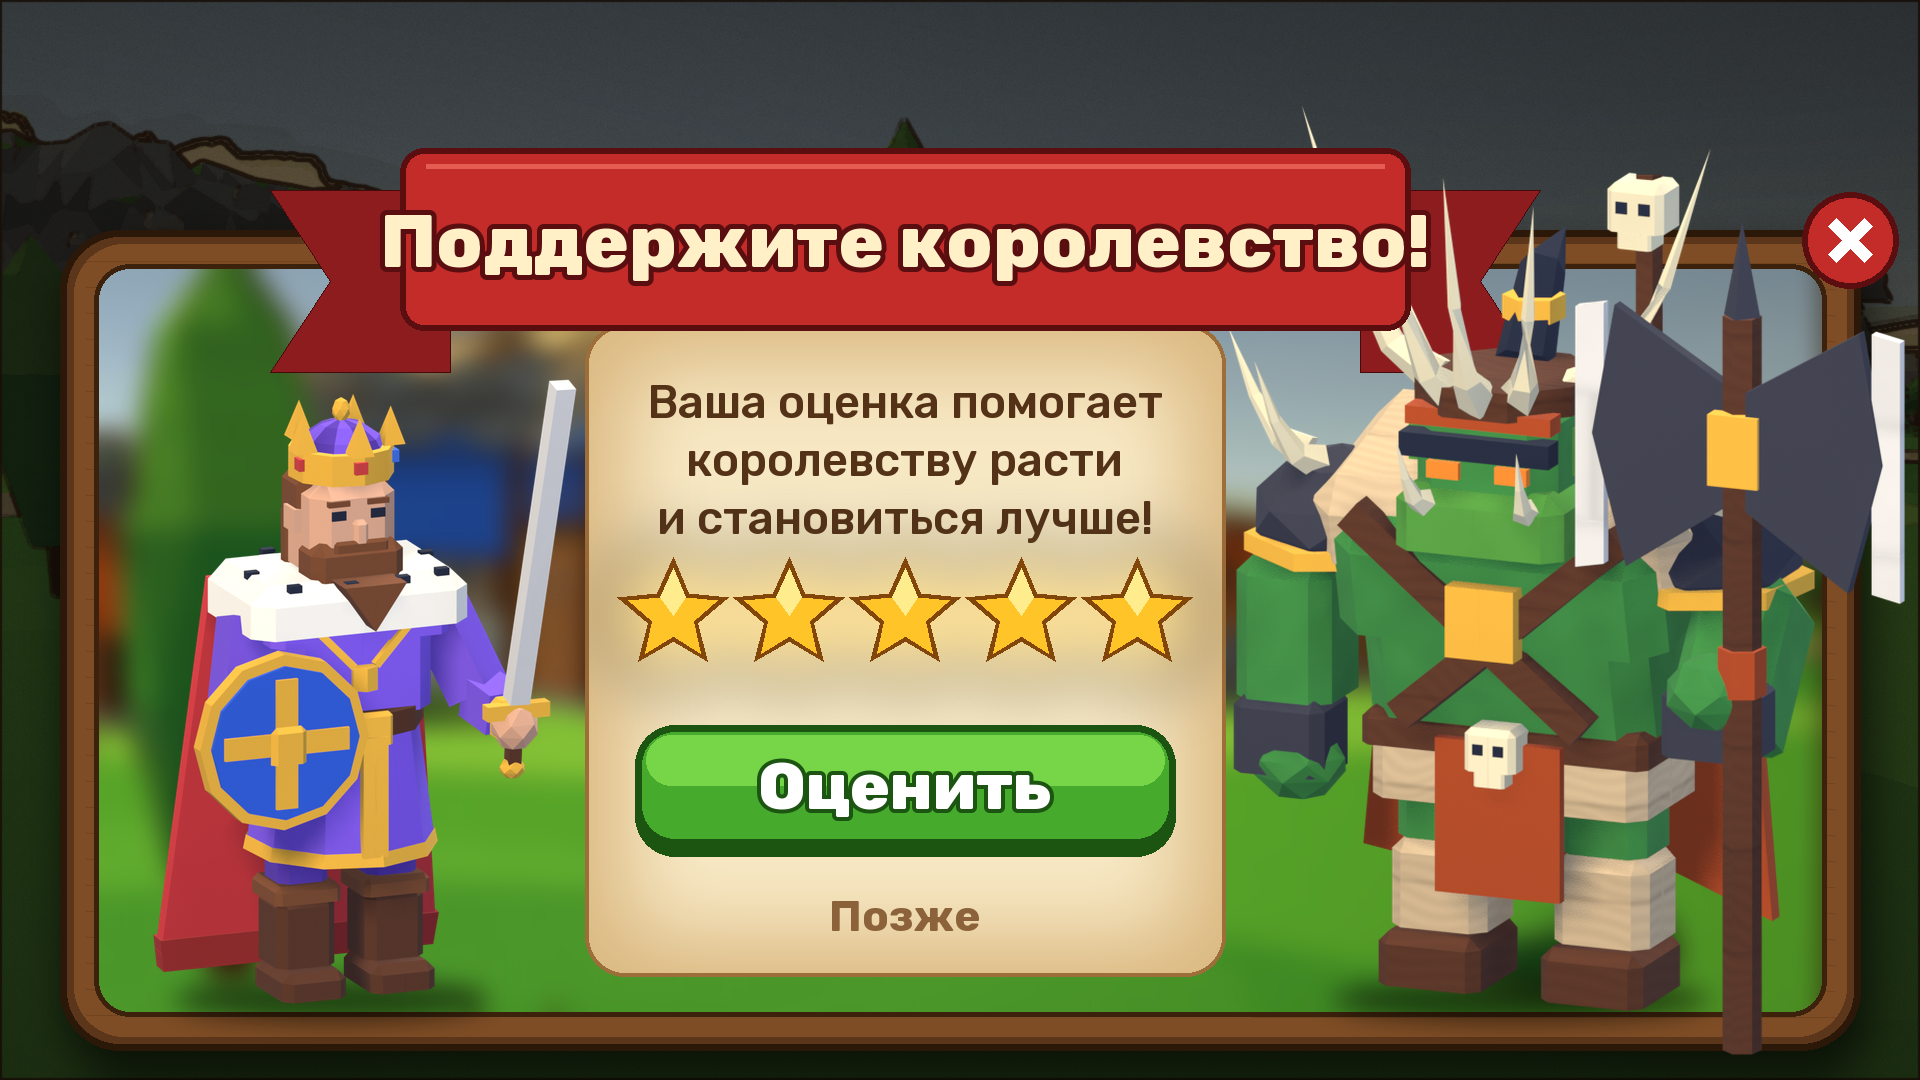
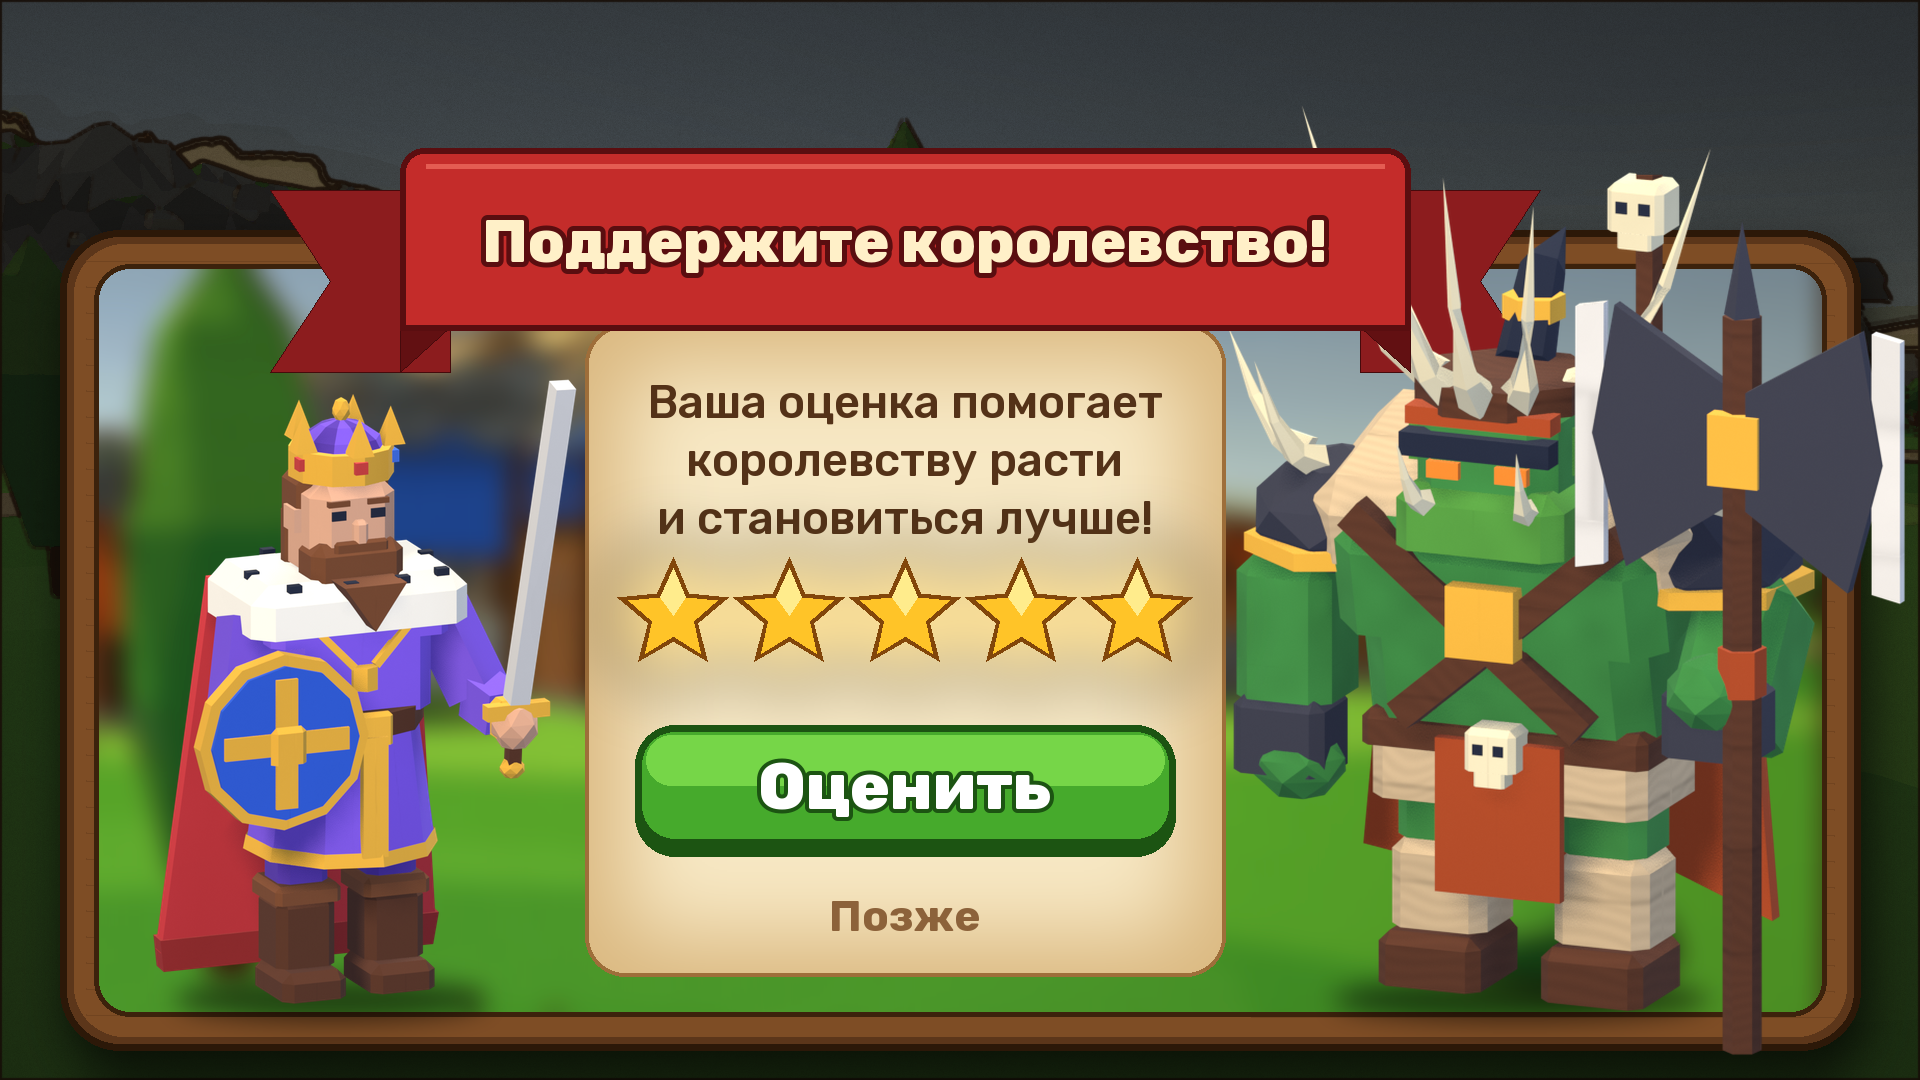
Rate-us window mock-up v5 (the user): ribbon folds join the tails, smaller title, no close X, a tap outside closes it

diff --git a/Tools/store/rate_window_mockup.py b/Tools/store/rate_window_mockup.py
@@ -151,9 +151,14 @@ print('orc', hero(S + '/figure_orc.png', ORC_BODY, ORC_FEET, ORC_HEAD, 1520, FLO
 d = ImageDraw.Draw(img)
 
 # the band itself over the heroes (his spikes pass behind the title, his head in front of the tail)
-d.rounded_rectangle((rx0, ry0, rx1, ry1), 24, fill=(196, 44, 42), outline=(90, 14, 16), width=6)
+# the folds joining the band to each tail (the user: «соедини эти элементы знамени»): a dark triangle
+# from the band's bottom edge down to the tail's top corner, the band's bottom corners square over it
+for side, bx in ((-1, rx0), (1, rx1)):
+    d.polygon([(bx - side * 50, ry1 - 3), (bx, ry1 - 3), (bx, ry1 + 42)], fill=(98, 16, 18), outline=(70, 10, 12))
+d.rounded_rectangle((rx0, ry0, rx1, ry1), 24, fill=(196, 44, 42), outline=(90, 14, 16), width=6,
+                    corners=(True, True, False, False))
 d.line((rx0 + 26, ry0 + 18, rx1 - 26, ry0 + 18), fill=(228, 92, 82), width=5)
-text(((rx0 + rx1) / 2, (ry0 + ry1) / 2 + 2), 'Поддержите королевство!', 74, (255, 240, 200), stroke=5, sf=(90, 14, 16))
+text(((rx0 + rx1) / 2, (ry0 + ry1) / 2 + 2), 'Поддержите королевство!', 60, (255, 240, 200), stroke=5, sf=(90, 14, 16))
 
 # ---- words, stars, buttons (1.5x)
 CX = (pw0 + pw1) / 2
@@ -192,10 +197,6 @@ def button(box, label, top, bot, out, size):
 button((CX - 270, 725, CX + 270, 845), 'Оценить', (118, 214, 72), (70, 170, 44), (28, 84, 18), 66)
 text((CX, 915), 'Позже', 44, (140, 98, 58), 'Rubik-Bold.ttf')
 
-# ---- close
-cx, cy = X1 - 10, Y0 + 10
-d.ellipse((cx - 48, cy - 48, cx + 48, cy + 48), fill=(196, 44, 42), outline=(90, 14, 16), width=6)
-d.line((cx - 18, cy - 18, cx + 18, cy + 18), fill='white', width=11)
-d.line((cx - 18, cy + 18, cx + 18, cy - 18), fill='white', width=11)
+# no close X (the user: «Позже» is the way out); a tap outside the window closes it too (= «Позже»)
 
 img.convert('RGB').save(S + '/' + OUT)

diff --git a/Design/features/store-listing.md b/Design/features/store-listing.md
@@ -61,6 +61,9 @@ user) and as a 3D render from the game's models; waiting for the user's correcti
   down to the parchment's top edge, its tails longer; draw order = tails, heroes, band (the chief's
   head in front of the right tail, his spikes behind the title). Body text replaced (the user disliked
   «Король и вождь орков…»): «Ваша оценка помогает королевству расти и становиться лучше!».
+  v5 (the user): dark fold triangles join the band to both tails (band bottom corners square); title
+  font smaller so it stays inside the band; NO close X (the user: «Позже» is enough). Behaviour rule:
+  a tap OUTSIDE the window closes it, the same as «Позже».
   In the game the heroes would be pre-rendered sprites (cheap on mobile), not live 3D.
 - Google Play rules that shape it: our stars are decoration only (the real rating is Google's In-App
   Review sheet or the store page); NO «do you like it?» gating, NO reward for rating; the In-App Review
